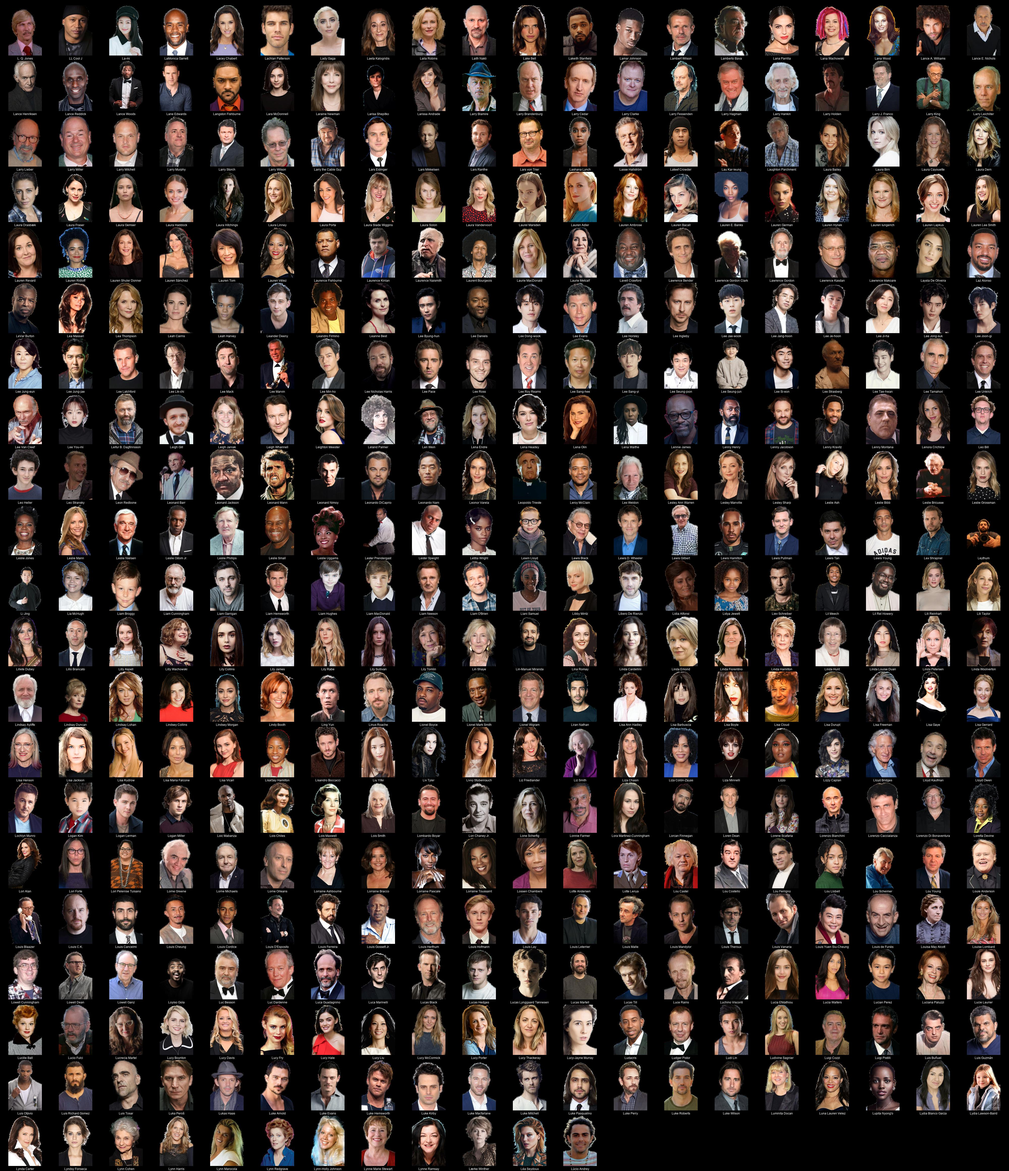
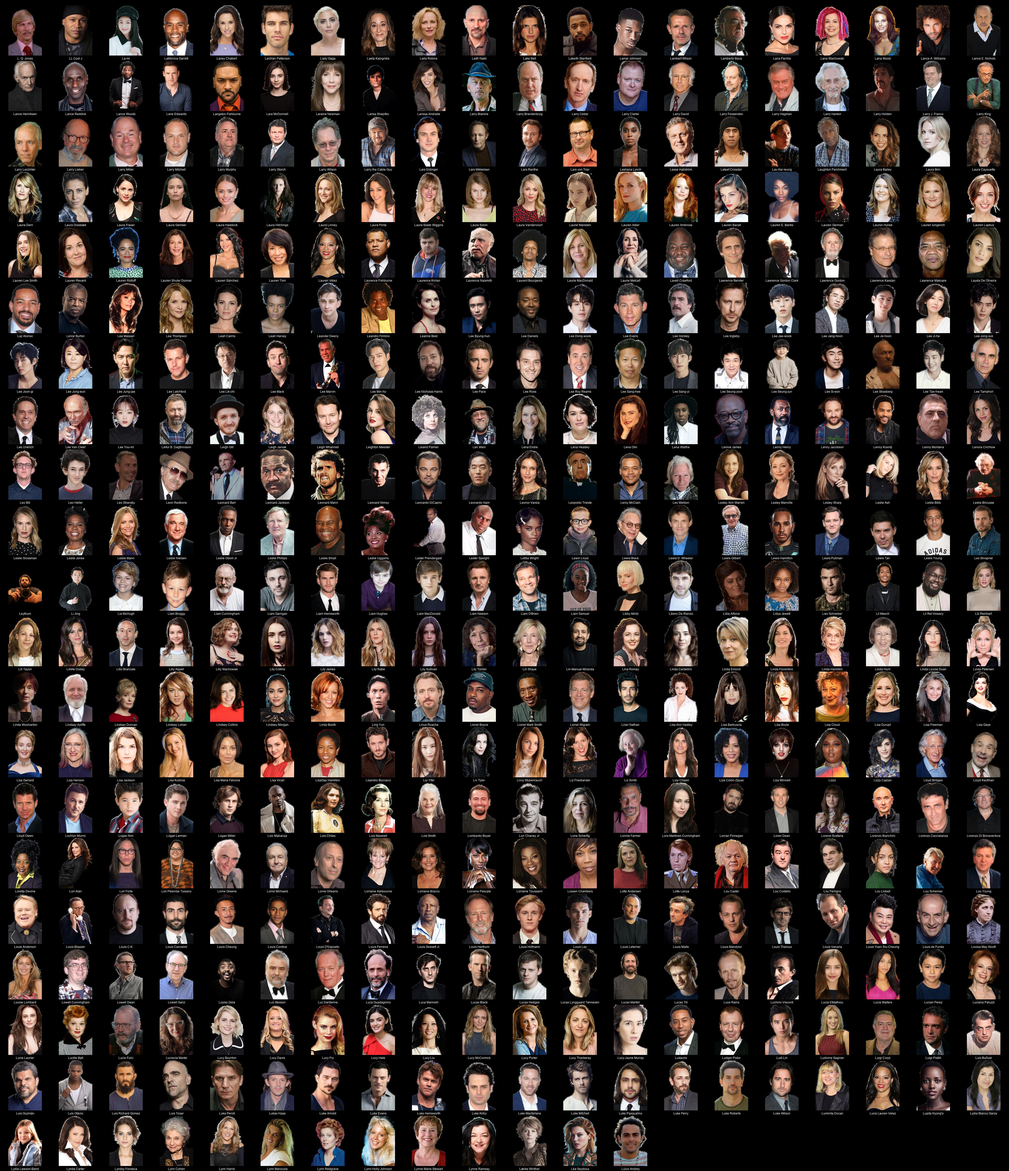
grids

diff --git a/README.md b/README.md
@@ -1,4 +1,4 @@
-# Kometa People Images - Transparent (transparent) (9550 Images)
+# Kometa People Images - Transparent (transparent) (9554 Images)
 
 <details><summary><a href="'">' (1 Images)</a></summary>
 
@@ -2843,7 +2843,7 @@
 * [Ezra Buzzington](https://raw.githubusercontent.com/Kometa-Team/People-Images-transparent/master/E/Images/Ezra%20Buzzington.png)
 * [Ezra Miller](https://raw.githubusercontent.com/Kometa-Team/People-Images-transparent/master/E/Images/Ezra%20Miller.png)
 </details>
-<details><summary><a href="F">F (169 Images)</a></summary>
+<details><summary><a href="F">F (170 Images)</a></summary>
 
 * [F. Gary Gray](https://raw.githubusercontent.com/Kometa-Team/People-Images-transparent/master/F/Images/F.%20Gary%20Gray.png)
 * [F. Murray Abraham](https://raw.githubusercontent.com/Kometa-Team/People-Images-transparent/master/F/Images/F.%20Murray%20Abraham.png)
@@ -2852,6 +2852,7 @@
 * [Fabio D'Innocenzo](https://raw.githubusercontent.com/Kometa-Team/People-Images-transparent/master/F/Images/Fabio%20D%27Innocenzo.png)
 * [Fabrice Gianfermi](https://raw.githubusercontent.com/Kometa-Team/People-Images-transparent/master/F/Images/Fabrice%20Gianfermi.png)
 * [Fabrizio Bentivoglio](https://raw.githubusercontent.com/Kometa-Team/People-Images-transparent/master/F/Images/Fabrizio%20Bentivoglio.png)
+* [Fabrizio De Angelis](https://raw.githubusercontent.com/Kometa-Team/People-Images-transparent/master/F/Images/Fabrizio%20De%20Angelis.png)
 * [Fabrizio Laurenti](https://raw.githubusercontent.com/Kometa-Team/People-Images-transparent/master/F/Images/Fabrizio%20Laurenti.png)
 * [Fahim Anwar](https://raw.githubusercontent.com/Kometa-Team/People-Images-transparent/master/F/Images/Fahim%20Anwar.png)
 * [Fairuza Balk](https://raw.githubusercontent.com/Kometa-Team/People-Images-transparent/master/F/Images/Fairuza%20Balk.png)
@@ -5347,7 +5348,7 @@
 * [Kyung Soo-jin](https://raw.githubusercontent.com/Kometa-Team/People-Images-transparent/master/K/Images/Kyung%20Soo-jin.png)
 * [Kō Nakahira](https://raw.githubusercontent.com/Kometa-Team/People-Images-transparent/master/K/Images/K%C5%8D%20Nakahira.png)
 </details>
-<details><summary><a href="L">L (412 Images)</a></summary>
+<details><summary><a href="L">L (413 Images)</a></summary>
 
 * [L. Q. Jones](https://raw.githubusercontent.com/Kometa-Team/People-Images-transparent/master/L/Images/L.%20Q.%20Jones.png)
 * [LL Cool J](https://raw.githubusercontent.com/Kometa-Team/People-Images-transparent/master/L/Images/LL%20Cool%20J.png)
@@ -5382,6 +5383,7 @@
 * [Larry Brandenburg](https://raw.githubusercontent.com/Kometa-Team/People-Images-transparent/master/L/Images/Larry%20Brandenburg.png)
 * [Larry Cedar](https://raw.githubusercontent.com/Kometa-Team/People-Images-transparent/master/L/Images/Larry%20Cedar.png)
 * [Larry Clarke](https://raw.githubusercontent.com/Kometa-Team/People-Images-transparent/master/L/Images/Larry%20Clarke.png)
+* [Larry David](https://raw.githubusercontent.com/Kometa-Team/People-Images-transparent/master/L/Images/Larry%20David.png)
 * [Larry Fessenden](https://raw.githubusercontent.com/Kometa-Team/People-Images-transparent/master/L/Images/Larry%20Fessenden.png)
 * [Larry Hagman](https://raw.githubusercontent.com/Kometa-Team/People-Images-transparent/master/L/Images/Larry%20Hagman.png)
 * [Larry Hankin](https://raw.githubusercontent.com/Kometa-Team/People-Images-transparent/master/L/Images/Larry%20Hankin.png)
@@ -6660,7 +6662,7 @@
 * [Måns Nathanaelson](https://raw.githubusercontent.com/Kometa-Team/People-Images-transparent/master/M/Images/M%C3%A5ns%20Nathanaelson.png)
 * [Mélanie Laurent](https://raw.githubusercontent.com/Kometa-Team/People-Images-transparent/master/M/Images/M%C3%A9lanie%20Laurent.png)
 </details>
-<details><summary><a href="N">N (266 Images)</a></summary>
+<details><summary><a href="N">N (267 Images)</a></summary>
 
 * [N.T. Rama Rao Jr.](https://raw.githubusercontent.com/Kometa-Team/People-Images-transparent/master/N/Images/N.T.%20Rama%20Rao%20Jr..png)
 * [Na Hong-jin](https://raw.githubusercontent.com/Kometa-Team/People-Images-transparent/master/N/Images/Na%20Hong-jin.png)
@@ -6690,6 +6692,7 @@
 * [Naomie Harris](https://raw.githubusercontent.com/Kometa-Team/People-Images-transparent/master/N/Images/Naomie%20Harris.png)
 * [Nasim Pedrad](https://raw.githubusercontent.com/Kometa-Team/People-Images-transparent/master/N/Images/Nasim%20Pedrad.png)
 * [Nastassja Kinski](https://raw.githubusercontent.com/Kometa-Team/People-Images-transparent/master/N/Images/Nastassja%20Kinski.png)
+* [Nat Faxon](https://raw.githubusercontent.com/Kometa-Team/People-Images-transparent/master/N/Images/Nat%20Faxon.png)
 * [Nat Wolff](https://raw.githubusercontent.com/Kometa-Team/People-Images-transparent/master/N/Images/Nat%20Wolff.png)
 * [Natacha Karam](https://raw.githubusercontent.com/Kometa-Team/People-Images-transparent/master/N/Images/Natacha%20Karam.png)
 * [Natalia Cordova-Buckley](https://raw.githubusercontent.com/Kometa-Team/People-Images-transparent/master/N/Images/Natalia%20Cordova-Buckley.png)
@@ -8015,7 +8018,7 @@
 * [Ryunosuke Kamiki](https://raw.githubusercontent.com/Kometa-Team/People-Images-transparent/master/R/Images/Ryunosuke%20Kamiki.png)
 * [Ryusuke Hamaguchi](https://raw.githubusercontent.com/Kometa-Team/People-Images-transparent/master/R/Images/Ryusuke%20Hamaguchi.png)
 </details>
-<details><summary><a href="S">S (683 Images)</a></summary>
+<details><summary><a href="S">S (684 Images)</a></summary>
 
 * [S. S. Rajamouli](https://raw.githubusercontent.com/Kometa-Team/People-Images-transparent/master/S/Images/S.%20S.%20Rajamouli.png)
 * [Saagar Shaikh](https://raw.githubusercontent.com/Kometa-Team/People-Images-transparent/master/S/Images/Saagar%20Shaikh.png)
@@ -8342,6 +8345,7 @@
 * [Shawn Seward](https://raw.githubusercontent.com/Kometa-Team/People-Images-transparent/master/S/Images/Shawn%20Seward.png)
 * [Shawn Wayans](https://raw.githubusercontent.com/Kometa-Team/People-Images-transparent/master/S/Images/Shawn%20Wayans.png)
 * [Shay Hatten](https://raw.githubusercontent.com/Kometa-Team/People-Images-transparent/master/S/Images/Shay%20Hatten.png)
+* [Shazad Latif](https://raw.githubusercontent.com/Kometa-Team/People-Images-transparent/master/S/Images/Shazad%20Latif.png)
 * [Shea Whigham](https://raw.githubusercontent.com/Kometa-Team/People-Images-transparent/master/S/Images/Shea%20Whigham.png)
 * [Sheaun McKinney](https://raw.githubusercontent.com/Kometa-Team/People-Images-transparent/master/S/Images/Sheaun%20McKinney.png)
 * [Shefali Chowdhury](https://raw.githubusercontent.com/Kometa-Team/People-Images-transparent/master/S/Images/Shefali%20Chowdhury.png)

diff --git a/F/README.md b/F/README.md
@@ -1,4 +1,4 @@
-# Kometa People Images - Transparent (transparent) - F (169 Images)
+# Kometa People Images - Transparent (transparent) - F (170 Images)
 ![Grid](grid.jpg)
 
 * [F. Gary Gray](https://raw.githubusercontent.com/Kometa-Team/People-Images-transparent/master/F/Images/F.%20Gary%20Gray.png)
@@ -8,6 +8,7 @@
 * [Fabio D'Innocenzo](https://raw.githubusercontent.com/Kometa-Team/People-Images-transparent/master/F/Images/Fabio%20D%27Innocenzo.png)
 * [Fabrice Gianfermi](https://raw.githubusercontent.com/Kometa-Team/People-Images-transparent/master/F/Images/Fabrice%20Gianfermi.png)
 * [Fabrizio Bentivoglio](https://raw.githubusercontent.com/Kometa-Team/People-Images-transparent/master/F/Images/Fabrizio%20Bentivoglio.png)
+* [Fabrizio De Angelis](https://raw.githubusercontent.com/Kometa-Team/People-Images-transparent/master/F/Images/Fabrizio%20De%20Angelis.png)
 * [Fabrizio Laurenti](https://raw.githubusercontent.com/Kometa-Team/People-Images-transparent/master/F/Images/Fabrizio%20Laurenti.png)
 * [Fahim Anwar](https://raw.githubusercontent.com/Kometa-Team/People-Images-transparent/master/F/Images/Fahim%20Anwar.png)
 * [Fairuza Balk](https://raw.githubusercontent.com/Kometa-Team/People-Images-transparent/master/F/Images/Fairuza%20Balk.png)

diff --git a/N/README.md b/N/README.md
@@ -1,4 +1,4 @@
-# Kometa People Images - Transparent (transparent) - N (266 Images)
+# Kometa People Images - Transparent (transparent) - N (267 Images)
 ![Grid](grid.jpg)
 
 * [N.T. Rama Rao Jr.](https://raw.githubusercontent.com/Kometa-Team/People-Images-transparent/master/N/Images/N.T.%20Rama%20Rao%20Jr..png)
@@ -29,6 +29,7 @@
 * [Naomie Harris](https://raw.githubusercontent.com/Kometa-Team/People-Images-transparent/master/N/Images/Naomie%20Harris.png)
 * [Nasim Pedrad](https://raw.githubusercontent.com/Kometa-Team/People-Images-transparent/master/N/Images/Nasim%20Pedrad.png)
 * [Nastassja Kinski](https://raw.githubusercontent.com/Kometa-Team/People-Images-transparent/master/N/Images/Nastassja%20Kinski.png)
+* [Nat Faxon](https://raw.githubusercontent.com/Kometa-Team/People-Images-transparent/master/N/Images/Nat%20Faxon.png)
 * [Nat Wolff](https://raw.githubusercontent.com/Kometa-Team/People-Images-transparent/master/N/Images/Nat%20Wolff.png)
 * [Natacha Karam](https://raw.githubusercontent.com/Kometa-Team/People-Images-transparent/master/N/Images/Natacha%20Karam.png)
 * [Natalia Cordova-Buckley](https://raw.githubusercontent.com/Kometa-Team/People-Images-transparent/master/N/Images/Natalia%20Cordova-Buckley.png)

diff --git a/S/README.md b/S/README.md
@@ -1,4 +1,4 @@
-# Kometa People Images - Transparent (transparent) - S (683 Images)
+# Kometa People Images - Transparent (transparent) - S (684 Images)
 ![Grid](grid.jpg)
 
 * [S. S. Rajamouli](https://raw.githubusercontent.com/Kometa-Team/People-Images-transparent/master/S/Images/S.%20S.%20Rajamouli.png)
@@ -326,6 +326,7 @@
 * [Shawn Seward](https://raw.githubusercontent.com/Kometa-Team/People-Images-transparent/master/S/Images/Shawn%20Seward.png)
 * [Shawn Wayans](https://raw.githubusercontent.com/Kometa-Team/People-Images-transparent/master/S/Images/Shawn%20Wayans.png)
 * [Shay Hatten](https://raw.githubusercontent.com/Kometa-Team/People-Images-transparent/master/S/Images/Shay%20Hatten.png)
+* [Shazad Latif](https://raw.githubusercontent.com/Kometa-Team/People-Images-transparent/master/S/Images/Shazad%20Latif.png)
 * [Shea Whigham](https://raw.githubusercontent.com/Kometa-Team/People-Images-transparent/master/S/Images/Shea%20Whigham.png)
 * [Sheaun McKinney](https://raw.githubusercontent.com/Kometa-Team/People-Images-transparent/master/S/Images/Sheaun%20McKinney.png)
 * [Shefali Chowdhury](https://raw.githubusercontent.com/Kometa-Team/People-Images-transparent/master/S/Images/Shefali%20Chowdhury.png)

diff --git a/L/README.md b/L/README.md
@@ -1,4 +1,4 @@
-# Kometa People Images - Transparent (transparent) - L (412 Images)
+# Kometa People Images - Transparent (transparent) - L (413 Images)
 ![Grid](grid.jpg)
 
 * [L. Q. Jones](https://raw.githubusercontent.com/Kometa-Team/People-Images-transparent/master/L/Images/L.%20Q.%20Jones.png)
@@ -34,6 +34,7 @@
 * [Larry Brandenburg](https://raw.githubusercontent.com/Kometa-Team/People-Images-transparent/master/L/Images/Larry%20Brandenburg.png)
 * [Larry Cedar](https://raw.githubusercontent.com/Kometa-Team/People-Images-transparent/master/L/Images/Larry%20Cedar.png)
 * [Larry Clarke](https://raw.githubusercontent.com/Kometa-Team/People-Images-transparent/master/L/Images/Larry%20Clarke.png)
+* [Larry David](https://raw.githubusercontent.com/Kometa-Team/People-Images-transparent/master/L/Images/Larry%20David.png)
 * [Larry Fessenden](https://raw.githubusercontent.com/Kometa-Team/People-Images-transparent/master/L/Images/Larry%20Fessenden.png)
 * [Larry Hagman](https://raw.githubusercontent.com/Kometa-Team/People-Images-transparent/master/L/Images/Larry%20Hagman.png)
 * [Larry Hankin](https://raw.githubusercontent.com/Kometa-Team/People-Images-transparent/master/L/Images/Larry%20Hankin.png)
